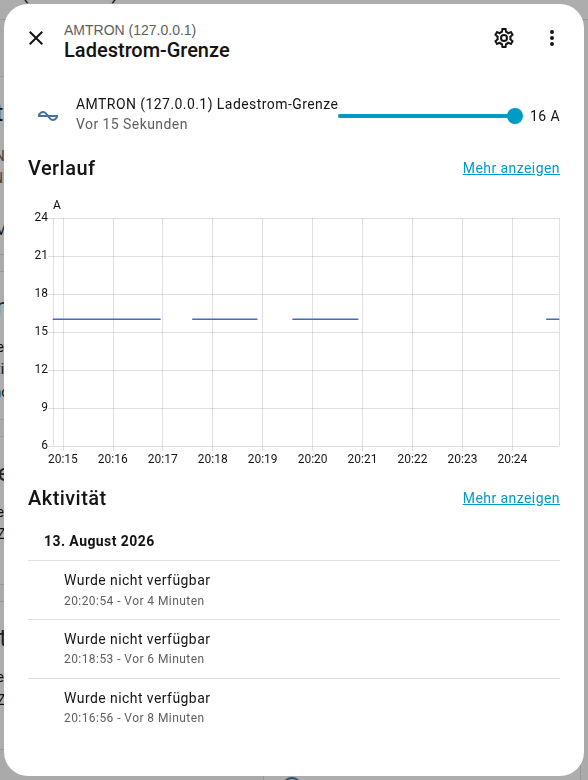
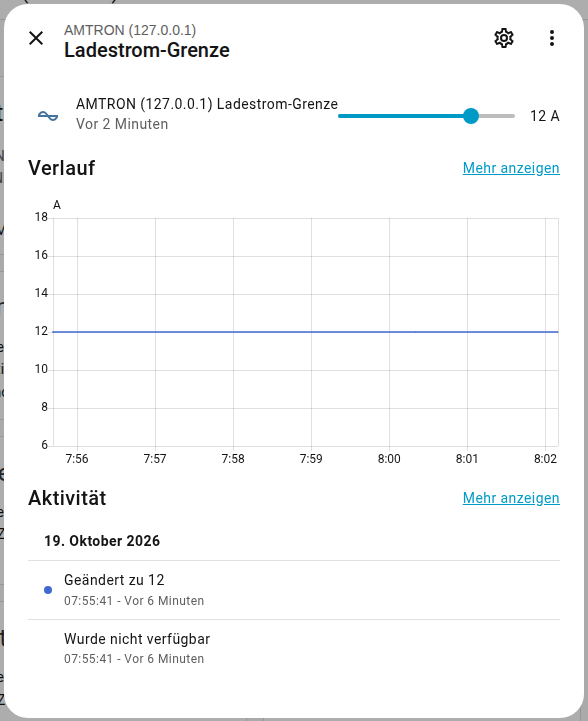
Update the docs and screenshots for charge modes and PV surplus charging
- README: entity overview, a getting-started list, troubleshooting rows
  for the charge controller, and the phase switching note that the
  controller is inactive outside "Disabled".
- New German short guide (ANLEITUNG.md): wallbox setup, installation,
  both Configure pages, the entities, charge modes, how the PV
  controller decides, and what the "Charge control" sensor means.
- Screenshots (EN + DE) retaken with PV sources configured: device page,
  both Configure pages, the charge mode options and the current limit
  dialog.
- manifest.json: real documentation URL instead of the placeholder,
  plus the issue tracker.

Claude-Session: https://claude.ai/code/session_01ATj6pLwHaoEeCnDxwBPKHn

diff --git a/README.md b/README.md
@@ -14,13 +14,16 @@ pymodbus dependency.
 > Professional). AMTRON Xtra/Premium use a different controller (HCC3) with a different
 > register map and word order — not compatible with this integration.
 
+🇩🇪 **Deutsche Kurzanleitung** (Einrichten, Einstellungen, Lademodi): [ANLEITUNG.md](ANLEITUNG.md)
+
 ## Features
 
 - **Charging power** (kW) — live, from the wallbox's built-in energy meter
 - **Charging current limit** (A) — adjustable, with a configurable maximum matching your
   supply circuit's fusing
 - **Start charging** — sets a configurable "start current" (16 A by default), then writes a
-  synthetic OCPP IdTag (same effect as tapping an RFID card)
+  synthetic OCPP IdTag (same effect as tapping an RFID card). If a session is already open, it
+  only sets the current.
 - **Pause charging** — writes a configurable "pause current" (0 A by default, per the
   manufacturer's documented pause mechanism)
 - **Status**, **session energy**, **total (lifetime) energy**, **system errors**, and
@@ -28,11 +31,41 @@ pymodbus dependency.
 - All three configurable currents (max., start, pause) are changeable at runtime via
   **Settings → Devices & Services → Mennekes AMTRON → Configure** — no file edits, no restart.
   The start current is bounded between 6 A and the configured maximum current.
+- **Charge mode** select: PV surplus, Immediate, Off or Manual — see
+  [PV surplus charging](#pv-surplus-charging).
+- Optional **PV surplus charging** with home-battery priority, from your inverter's entities.
 - Optional **1-phase/3-phase switching** — see below.
-- Optional **PV surplus charging** with home-battery priority — see below.
 
-See [`custom_components/mennekes_amtron/`](custom_components/mennekes_amtron/) for the full
-entity list and register-level detail in code comments.
+## Entities
+
+| Entity | Type | Shown under | Notes |
+|---|---|---|---|
+| Charge mode | Select | Controls | PV surplus / Immediate / Off / Manual. Default Manual. |
+| Charging current limit | Number (A) | Controls | 0 = paused; 6 A … configured maximum. Changing it switches the charge mode to Manual. |
+| Charging power limit | Number (W) | Controls | Only with phase switching enabled. |
+| Start charging / Pause charging | Button | Controls | Both switch the charge mode to Manual. |
+| Charging power | Sensor (kW) | Sensors | From the wallbox's meter. |
+| Status | Sensor | Sensors | OCPP status, e.g. Available, Charging, Suspended (wallbox), Suspended (vehicle). |
+| Session energy / Total energy | Sensor (Wh) | Sensors | Total energy works with the Energy dashboard. |
+| PV surplus | Sensor (W) | Sensors | Only with PV sources configured; 2-minute average. |
+| PV: start at battery SoC, PV: stop below battery SoC, PV: minimum time between start/stop, PV: buffer time below 6 A | Number | Configuration | Only with PV sources configured. |
+| Immediate: back to PV surplus when full | Switch | Configuration | Only with PV sources configured. |
+| Charge control | Sensor | Diagnostic | What the PV controller is doing and why. |
+| Error / Firmware version | Sensor | Diagnostic | |
+
+## Getting started
+
+1. Prepare the wallbox ([Wallbox setup](#wallbox-setup)), then [install](#installation) and add
+   the integration with the wallbox's IP address.
+2. **Configure**, page 1: set the maximum current to match your supply circuit; adjust the start
+   and pause currents if needed. Leave phase switching on "Disabled" unless your unit has the
+   hardware (and for PV surplus charging).
+3. Optional, **Configure**, page 2: pick your inverter's feed-in, grid import, battery discharge
+   and battery SoC entities to enable PV surplus charging ([Sources](#sources)).
+4. Pick a **Charge mode** on the device page. Without PV sources, use Manual and the Start/Pause
+   buttons, or Immediate/Off.
+5. With PV sources: adjust the PV thresholds under **Configuration** on the device page and watch
+   the **Charge control** sensor to see what the controller decides.
 
 ## Phase switching (1-phase / 3-phase)
 
@@ -43,7 +76,7 @@ switching"**:
 | Mode | Effect |
 |---|---|
 | Disabled *(default)* | Unchanged from above: only the Amp-based **Charging current limit** entity exists. |
-| Single-phase only | Adds a **Charging power limit** (W) entity; requests are always clamped to the 1-phase range, never switching to 3-phase. |
+| Single-phase only | Adds a **Charging power limit** (W) entity; requests are always clamped to the 1-phase range, never switching to 3-phase. The charge mode controller (PV surplus, Immediate, Off) is inactive in this mode and the next. |
 | Automatic (1-phase / 3-phase) | Adds the same **Charging power limit** (W) entity; the wallbox switches phases itself depending on the requested power - below 4140 W it charges 1-phase, at or above it charges 3-phase (the wallbox's own documented behavior for this register, not something this integration decides). |
 
 Set the entity to the power you actually want delivered (e.g. `1380` for a minimal 1-phase
@@ -101,7 +134,8 @@ The **Charge mode** select entity:
 **Manual override:** pressing **Start charging** or **Pause charging**, or changing the
 **Charging current limit**, switches the mode to Manual - otherwise the controller would undo it
 within 30 s. The controller's own starts and stops don't. Unplugging the car (status "Available"
-for 10 s) switches Manual back to PV surplus; Immediate and Off stay until you change them.
+for 10 s) switches Manual back to PV surplus if PV sources are configured; Immediate and Off
+stay until you change them.
 
 **Back from Immediate:** with *Immediate: back to PV surplus when full* on (the default), Immediate
 switches to PV surplus once the car is full. The wallbox doesn't know the car's state of charge,
@@ -142,15 +176,24 @@ stays open and a restart only raises the current again.
 
 ## Screenshots
 
-The device page in Home Assistant, showing every entity the integration provides (values are
-from a live demo session):
+The device page in Home Assistant with PV sources configured, showing every entity the
+integration provides. The values are from a demo setup charging one phase at 12 A from 2860 W of
+PV surplus:
 
 ![Device page](screenshots/device_page_en.png)
 
-The **Configure** dialog (Settings → Devices & Services → Mennekes AMTRON → Configure), where
-the three writable currents are set:
+The **Charge mode** select:
 
-![Configure options](screenshots/configure_options_en.png)
+![Charge mode options](screenshots/charge_mode_options_en.png)
+
+The **Configure** dialog (Settings → Devices & Services → Mennekes AMTRON → Configure). Page 1
+sets the currents and phase switching:
+
+![Configure options, page 1](screenshots/configure_options_en.png)
+
+Page 2 picks the PV surplus sources:
+
+![Configure options, page 2: PV surplus sources](screenshots/configure_pv_sources_en.png)
 
 The charging-current-limit entity's own dialog, with its history graph:
 
@@ -160,7 +203,9 @@ The charging-current-limit entity's own dialog, with its history graph:
 <summary>Same screenshots in German (Home Assistant UI set to Deutsch)</summary>
 
 ![Geräteseite](screenshots/device_page_de.png)
-![Konfigurationsdialog](screenshots/configure_options_de.png)
+![Lademodus](screenshots/charge_mode_options_de.png)
+![Konfigurationsdialog, Seite 1](screenshots/configure_options_de.png)
+![Konfigurationsdialog, Seite 2: PV-Überschuss-Quellen](screenshots/configure_pv_sources_de.png)
 ![Entität Ladestrom-Grenze](screenshots/entity_current_limit_de.png)
 
 </details>
@@ -237,6 +282,11 @@ down immediately.
 | Persistent Modbus errors regardless of function code | Register set may be set to an alternative like `TQDM100` instead of `Mennekes` in the wallbox UI — see [Wallbox setup](#wallbox-setup), step 3. |
 | Connects, but `Illegal data address`, or unit ID issues | Default unit ID is 255 (most common), but at least one report used **unit ID 1** instead. Try 1 if 255 fails. |
 | `start_charging` has no effect | Confirm both "Modbus Slave Allow Start/Stop Transaction" and "kostenloses Laden" are enabled (steps 4–5 above). |
+| Charge mode switches to Manual by itself | Intended: pressing Start/Pause or changing the current limit is a manual override. Unplugging the car switches back to PV surplus. |
+| Charge control: "No PV sources configured" | PV surplus is selected, but no feed-in entity is set on page 2 of **Configure**. |
+| Charge control: "Waiting for data" | A source entity, the battery SoC or the wallbox is unavailable, or the integration started less than a minute ago. The last current stays. |
+| Charge control: "Phase switching enabled" | Set phase switching to "Disabled"; the controller only works with the current register. |
+| PV surplus doesn't start charging | Check the **Charge control** sensor: it starts only at or above the start SoC **and** with at least 1380 W of surplus in the 2-minute average. Compare the **PV surplus** sensor's attributes with your inverter's app. |
 
 ## Development
 

diff --git a/ANLEITUNG.md b/ANLEITUNG.md
@@ -1,0 +1,152 @@
+# Kurzanleitung: Mennekes AMTRON in Home Assistant
+
+Diese Anleitung führt durch Einrichtung und Bedienung. Details zu Registern, Berechnung und
+Fehlersuche stehen in der [README](README.md) (Englisch).
+
+## 1. Wallbox vorbereiten
+
+Im Webinterface der Wallbox als **Operator** anmelden:
+
+1. **Lastmanagement**: **Modbus TCP** einschalten, als Registersatz **„Mennekes“** wählen und
+   **„Modbus Slave Allow Start/Stop Transaction“** aktivieren.
+2. **Autorisierung**: **„kostenloses Laden“** einschalten. Ohne diese Einstellung lehnt die
+   Wallbox den Startbefehl der Integration ab wie eine unbekannte RFID-Karte.
+3. Speichern und die Wallbox neu starten.
+
+## 2. Installieren und hinzufügen
+
+1. **HACS** → Menü **⋮** → **Benutzerdefinierte Repositories** → die URL dieses Repositorys mit
+   der Kategorie **Integration** hinzufügen → **„Mennekes AMTRON Charge Control“** installieren →
+   Home Assistant neu starten.
+   Ohne HACS: den Ordner `custom_components/mennekes_amtron/` nach
+   `<config>/custom_components/` kopieren und neu starten.
+2. **Einstellungen → Geräte & Dienste → Integration hinzufügen** → „Mennekes AMTRON“ suchen →
+   die IP-Adresse der Wallbox eingeben. Port `502` und Unit-ID `255` sind vorausgefüllt. Klappt
+   die Verbindung mit 255 nicht, die Unit-ID `1` versuchen.
+
+Beim Hinzufügen liest die Integration sofort von der Wallbox. Eine falsche Einstellung zeigt sich
+deshalb direkt als Fehlermeldung im Dialog.
+
+## 3. Einstellungen
+
+**Einstellungen → Geräte & Dienste → Mennekes AMTRON → Konfigurieren**. Der Dialog hat zwei
+Seiten. Nach dem Speichern lädt die Integration neu.
+
+### Seite 1: Ströme und Phasenumschaltung
+
+![Konfigurieren, Seite 1](screenshots/configure_options_de.png)
+
+| Feld | Bedeutung |
+|---|---|
+| Maximaler Ladestrom | Obergrenze für alles, was die Integration schreibt. Passend zur Absicherung der Zuleitung einstellen (Standard 16 A). |
+| Von „Ladevorgang pausieren“ geschriebener Wert | Normalerweise 0 A (Standard). |
+| Von „Ladevorgang starten“ geschriebener Wert | Startladestrom, 6 A bis zum maximalen Ladestrom (Standard 16 A). |
+| Phasenumschaltung | Nur mit Umschalt-Hardware in der Wallbox. Für Lademodi und PV-Überschussladen auf **„Deaktiviert“** lassen. |
+
+### Seite 2: PV-Überschuss-Quellen (optional)
+
+![Konfigurieren, Seite 2](screenshots/configure_pv_sources_de.png)
+
+Hier wählst du Entities deines Wechselrichters (z. B. SMA) aus. Ohne Netzeinspeisung bleibt das
+PV-Überschussladen aus, alles andere funktioniert trotzdem.
+
+| Feld | Hinweis |
+|---|---|
+| Netzeinspeisung | Eine oder mehrere, die Werte werden addiert (z. B. Wechselrichter plus Balkonkraftwerk). Eine Anlage, die dein Netzzähler schon mitmisst, nicht zusätzlich eintragen, sonst zählt sie doppelt. |
+| Netzbezug | Leer gelassen zählt als 0 W. |
+| Speicher-Entladeleistung | Leer gelassen zählt als 0 W (kein Hausspeicher). |
+| Speicher-Ladestand (SoC) | Ohne Hausspeicher leer lassen, dann gelten die SoC-Schwellen nicht. |
+
+Alle Leistungen werden als positive Werte in W oder kW erwartet.
+
+## 4. Das Gerät in Home Assistant
+
+![Geräteseite](screenshots/device_page_de.png)
+
+| Bereich | Entity | Wofür |
+|---|---|---|
+| Steuerelemente | Lademodus | PV-Überschuss, Sofort, Aus oder Manuell (siehe unten). |
+| | Ladestrom-Grenze | Ladestrom von Hand setzen. 0 A heißt pausiert. |
+| | Ladevorgang starten / pausieren | Startet mit dem Startladestrom bzw. pausiert mit dem Pausenwert. |
+| Sensoren | Ladeleistung, Status, Energie (aktuelle Ladung), Gesamtenergie | Messwerte der Wallbox. Die Gesamtenergie eignet sich für das Energie-Dashboard. |
+| | PV-Überschuss | Überschuss im 2-Minuten-Mittel. Nur mit PV-Quellen. |
+| Konfiguration | PV: … und Sofort: … | Einstellungen der PV-Regelung (siehe unten). Nur mit PV-Quellen. |
+| Diagnose | Laderegelung | Zeigt, was die Regelung gerade tut und warum. |
+| | Fehler, Firmware-Version | Für die Fehlersuche. |
+
+Mit aktiver Phasenumschaltung kommt die **Ladeleistung-Grenze** (W) dazu.
+
+## 5. Laden im Alltag: der Lademodus
+
+![Lademodus](screenshots/charge_mode_options_de.png)
+
+| Modus | Was passiert |
+|---|---|
+| **PV-Überschuss** | Die Integration startet, regelt und stoppt die Ladung nach dem Überschuss (siehe nächster Abschnitt). |
+| **Sofort** | Lädt mit dem maximalen Ladestrom. Ist das Auto voll, wechselt der Modus auf PV-Überschuss (abschaltbar). |
+| **Aus** | Hält den Ladestrom auf 0 A. |
+| **Manuell** *(Standard)* | Die Integration greift nicht selbst ein. Du steuerst über die Buttons und die Ladestrom-Grenze. |
+
+- **Manuell eingreifen:** „Ladevorgang starten“, „Ladevorgang pausieren“ oder eine Änderung der
+  Ladestrom-Grenze schalten den Modus auf **Manuell**. Sonst würde die Regelung deine Änderung
+  innerhalb von 30 s wieder überschreiben.
+- **Ausstecken:** Steht der Status mindestens 10 s auf „Frei“, geht „Manuell“ zurück auf
+  **PV-Überschuss** (nur mit PV-Quellen). „Sofort“ und „Aus“ bleiben, bis du sie änderst.
+- **Auto voll bei „Sofort“:** Die Wallbox kennt den Akkustand des Autos nicht. Als voll gilt das
+  Auto, wenn es 10 Minuten lang selbst pausiert („Pausiert (Fahrzeug)“), obwohl Strom angeboten
+  wird. Pausiert dein Auto auch aus anderen Gründen, z. B. wegen eines eigenen Ladetimers, den
+  Schalter **„Sofort: danach zurück zu PV-Überschuss“** ausschalten.
+
+## 6. So entscheidet die PV-Regelung
+
+Die Regelung läuft alle 30 s und rechnet mit einphasigem Laden, also 230 W pro Ampere.
+
+- **Start**, wenn der Speicher mindestens den Start-SoC hat **und** im 2-Minuten-Mittel
+  mindestens 1380 W (6 A) Überschuss da sind.
+- **Ladestrom** = Überschuss ÷ 230 W, abgerundet, zwischen 6 A und dem maximalen Ladestrom.
+- **Unter 6 A Überschuss** lädt sie mit 6 A weiter und überbrückt den Rest aus dem Speicher, aber
+  nur für die Pufferzeit. Danach stoppt sie. Der Speicher puffert also nur Wolken und wird nicht
+  ins Auto entladen.
+- **Stopp**, sobald der Speicher unter den Stopp-SoC fällt. Neu gestartet wird erst wieder ab dem
+  Start-SoC.
+- Lädt die Wallbox beim Einstecken von selbst los, übernimmt die Regelung die Ladung, wenn die
+  Startbedingung erfüllt ist, und stoppt sie sonst.
+- Fehlen Werte (Quelle oder Wallbox nicht verfügbar, oder weniger als 1 Minute seit dem Start),
+  ändert sie nichts und der letzte Ladestrom bleibt.
+
+Die Einstellungen dazu findest du auf der Geräteseite unter **Konfiguration**:
+
+| Einstellung | Standard | Bedeutung |
+|---|---|---|
+| PV: Start ab Speicher-SoC | 60 % | Unter diesem Ladestand startet keine PV-Ladung. |
+| PV: Stopp unter Speicher-SoC | 50 % | Darunter stoppt die Ladung. Muss unter dem Start-SoC liegen. |
+| PV: Mindestabstand Start/Stopp | 90 s | Mindestzeit zwischen zwei Start- oder Stoppbefehlen, schont Auto und Wallbox. |
+| PV: Pufferzeit unter 6 A | 10 min | So lange darf der Speicher bei weniger als 6 A Überschuss aushelfen. |
+| Sofort: danach zurück zu PV-Überschuss | an | Wechselt von „Sofort“ auf PV-Überschuss, wenn das Auto voll ist. |
+
+## 7. Was zeigt die „Laderegelung“?
+
+| Anzeige | Bedeutung |
+|---|---|
+| Manuell / Aus / Sofortladen | Der gewählte Modus ist aktiv. |
+| Kein Fahrzeug | Kein Auto eingesteckt. |
+| Wartet auf Speicher-SoC | Der Speicher hat den Start-SoC noch nicht erreicht. |
+| Wartet auf Überschuss | Weniger als 1380 W Überschuss im 2-Minuten-Mittel. |
+| Lädt mit PV-Überschuss | Die Regelung lädt und führt den Strom nach. |
+| Puffert aus Speicher | Weniger als 6 A Überschuss, die Pufferzeit läuft. |
+| Mindestabstand läuft | Ein Start oder Stopp ist fällig, wartet aber noch auf den Mindestabstand. |
+| Wartet auf Daten | Eine Quelle, der SoC oder die Wallbox ist nicht verfügbar, oder die Integration läuft noch keine Minute. |
+| Keine PV-Quellen konfiguriert | PV-Überschuss ist gewählt, aber auf Seite 2 von „Konfigurieren“ fehlt die Netzeinspeisung. |
+| Phasenumschaltung aktiv | Die Phasenumschaltung steht nicht auf „Deaktiviert“, die Regelung bleibt aus. |
+| Fehler | Ein Schreibbefehl an die Wallbox ist fehlgeschlagen. Details stehen im Home-Assistant-Log. |
+
+## 8. Wenn etwas nicht klappt
+
+- **„Ladevorgang starten“ wirkt nicht:** In der Wallbox „Modbus Slave Allow Start/Stop
+  Transaction“ und „kostenloses Laden“ prüfen (Schritt 1).
+- **Der Lademodus springt auf „Manuell“:** Das ist gewollt, sobald du selbst startest, pausierst
+  oder die Ladestrom-Grenze änderst.
+- **PV-Überschuss lädt nicht los:** Die Laderegelung zeigt den Grund. Die Attribute des Sensors
+  „PV-Überschuss“ zeigen die einzelnen Werte der letzten Messung, die du mit der App deines
+  Wechselrichters vergleichen kannst.
+- Weitere Fehlerbilder stehen in der [README unter Troubleshooting](README.md#troubleshooting).
